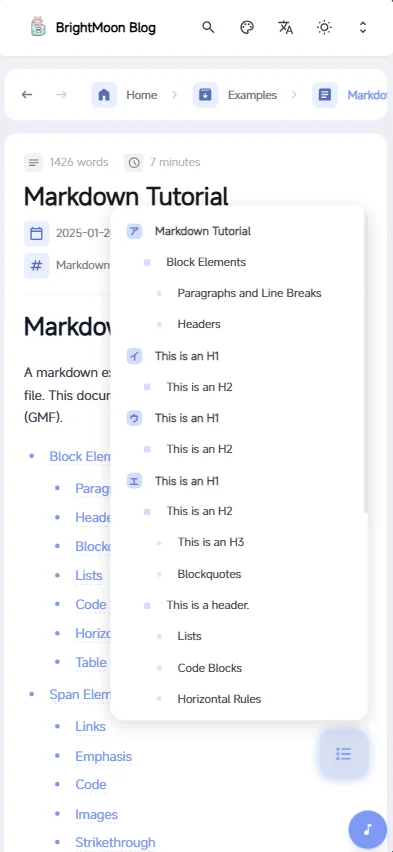
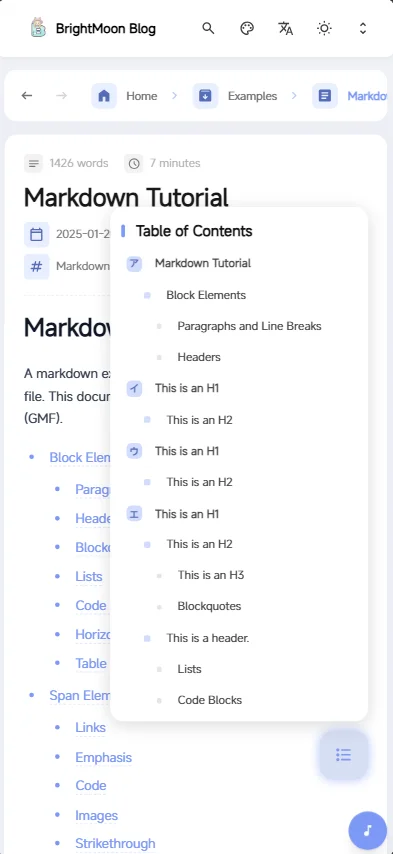
优化音乐播放器播放进度条支持拖动定位

diff --git a/src/components/widget/MusicPlayer.svelte b/src/components/widget/MusicPlayer.svelte
@@ -542,10 +542,55 @@ function updateCurrentLyricIndex() {
 	currentLyricIndex = -1;
 }
 
-function setProgress(event: MouseEvent) {
-	if (!audio || !progressBar) return;
-	const rect = progressBar.getBoundingClientRect();
-	const percent = (event.clientX - rect.left) / rect.width;
+let isProgressDragging = false;
+let isProgressPointerDown = false;
+let progressBarRect: DOMRect | null = null;
+let progressRafId: number | null = null;
+
+function startProgressDrag(event: PointerEvent) {
+	if (!audio || !progressBar || !duration) return;
+	event.preventDefault();
+
+	isProgressPointerDown = true;
+	progressBar.setPointerCapture(event.pointerId);
+
+	progressBarRect = progressBar.getBoundingClientRect();
+	updateProgressLogic(event.clientX);
+}
+
+function handleProgressMove(event: PointerEvent) {
+	if (!isProgressPointerDown) return;
+	event.preventDefault();
+
+	isProgressDragging = true;
+	if (progressRafId) return;
+
+	progressRafId = requestAnimationFrame(() => {
+		updateProgressLogic(event.clientX);
+		progressRafId = null;
+	});
+}
+
+function stopProgressDrag(event: PointerEvent) {
+	if (!isProgressPointerDown) return;
+	isProgressPointerDown = false;
+	isProgressDragging = false;
+	progressBarRect = null;
+	if (progressBar) {
+		progressBar.releasePointerCapture(event.pointerId);
+	}
+
+	if (progressRafId) {
+		cancelAnimationFrame(progressRafId);
+		progressRafId = null;
+	}
+}
+
+function updateProgressLogic(clientX: number) {
+	if (!audio || !progressBar || !duration) return;
+
+	const rect = progressBarRect || progressBar.getBoundingClientRect();
+	const percent = Math.max(0, Math.min(1, (clientX - rect.left) / rect.width));
 	const newTime = percent * duration;
 	audio.currentTime = newTime;
 	currentTime = newTime;
@@ -670,8 +715,8 @@ onDestroy(() => {
 ></audio>
 
 <svelte:window 
-    on:pointermove={handleVolumeMove} 
-    on:pointerup={stopVolumeDrag} 
+    on:pointermove={(e) => { handleProgressMove(e); handleVolumeMove(e); }} 
+    on:pointerup={(e) => { stopProgressDrag(e); stopVolumeDrag(e); }} 
 />
 
 {#if musicPlayerConfig.enable}
@@ -803,9 +848,9 @@ onDestroy(() => {
             
         </div>
         <div class="progress-section mb-4">
-            <div class="progress-bar flex-1 h-2 bg-[var(--btn-regular-bg)] rounded-full cursor-pointer"
+            <div class="progress-bar flex-1 h-2 bg-[var(--btn-regular-bg)] rounded-full cursor-pointer touch-none relative"
                  bind:this={progressBar}
-                 on:click={setProgress}
+                 on:pointerdown={startProgressDrag}
                  on:keydown={(e) => {
                      if (e.key === 'Enter' || e.key === ' ') {
                          e.preventDefault();
@@ -823,8 +868,11 @@ onDestroy(() => {
                  aria-valuemin="0"
                  aria-valuemax="100"
                  aria-valuenow={duration > 0 ? (currentTime / duration * 100) : 0}>
-                <div class="h-full bg-[var(--primary)] rounded-full transition-all duration-100"
+                <div class="h-full bg-[var(--primary)] rounded-full transition-all"
+                     class:duration-100={!isProgressDragging}
+                     class:duration-0={isProgressDragging}
                      style="width: {duration > 0 ? (currentTime / duration) * 100 : 0}%"></div>
+
             </div>
         </div>
         {#if showLyrics}
